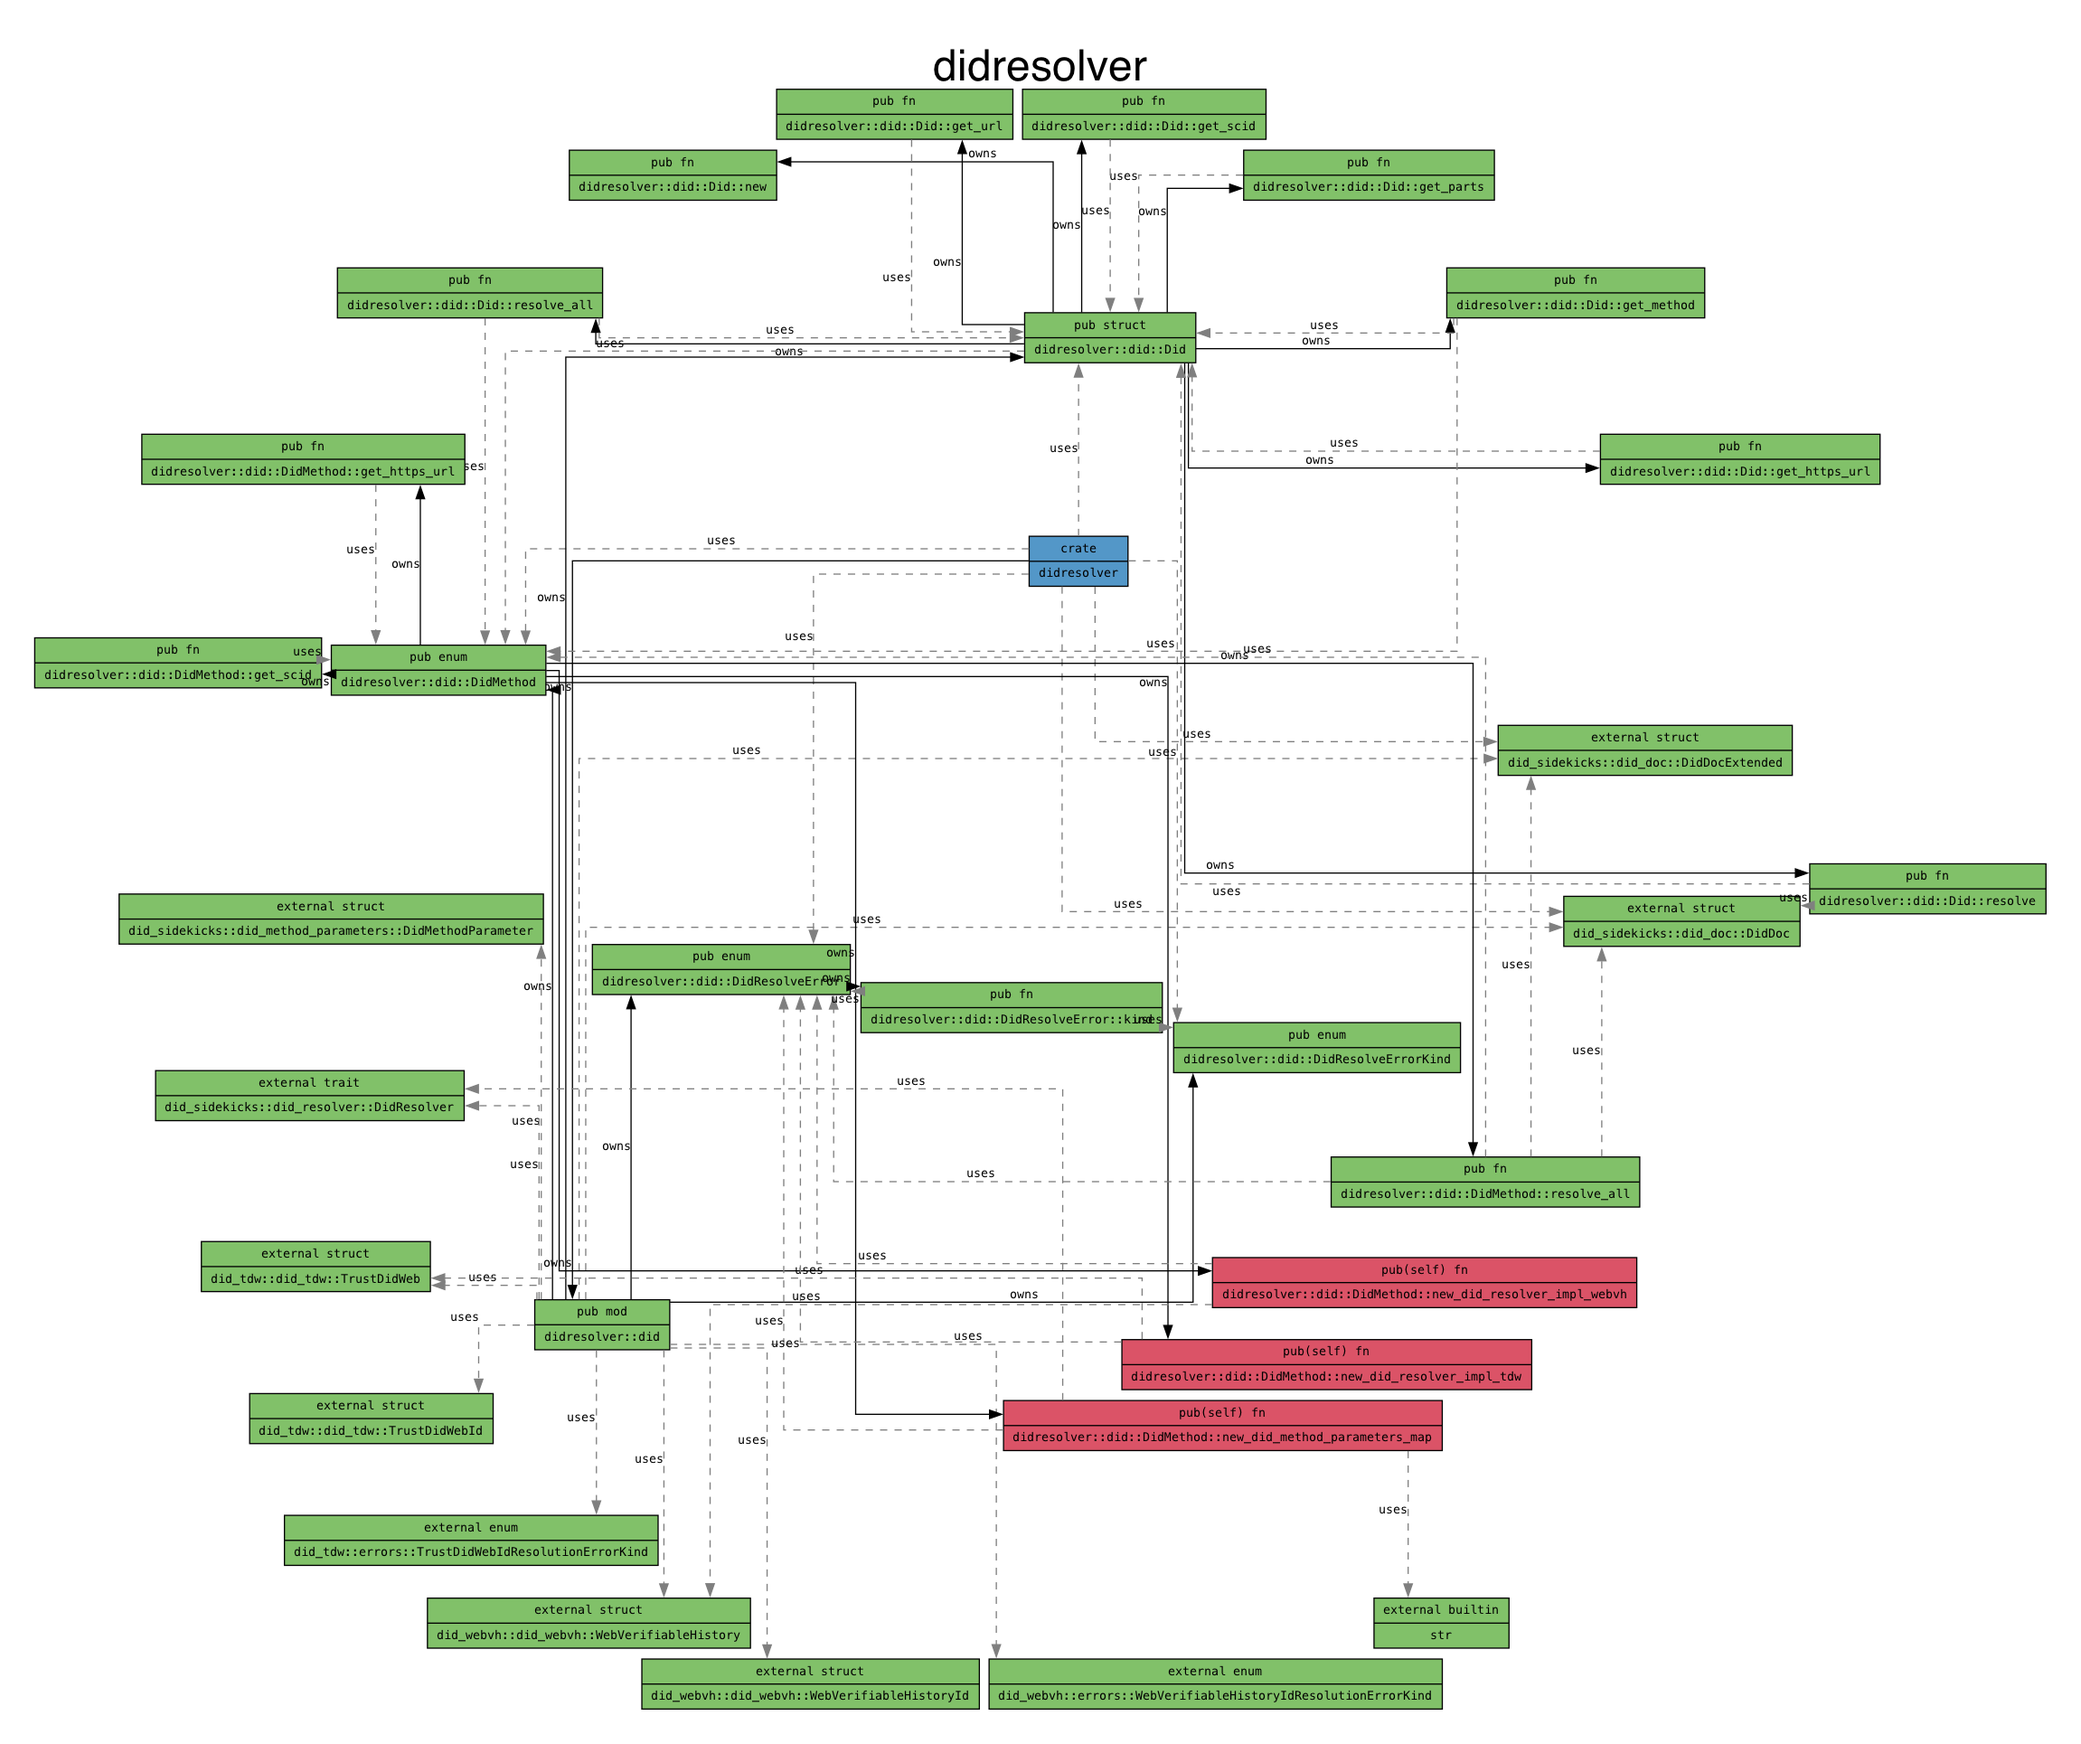
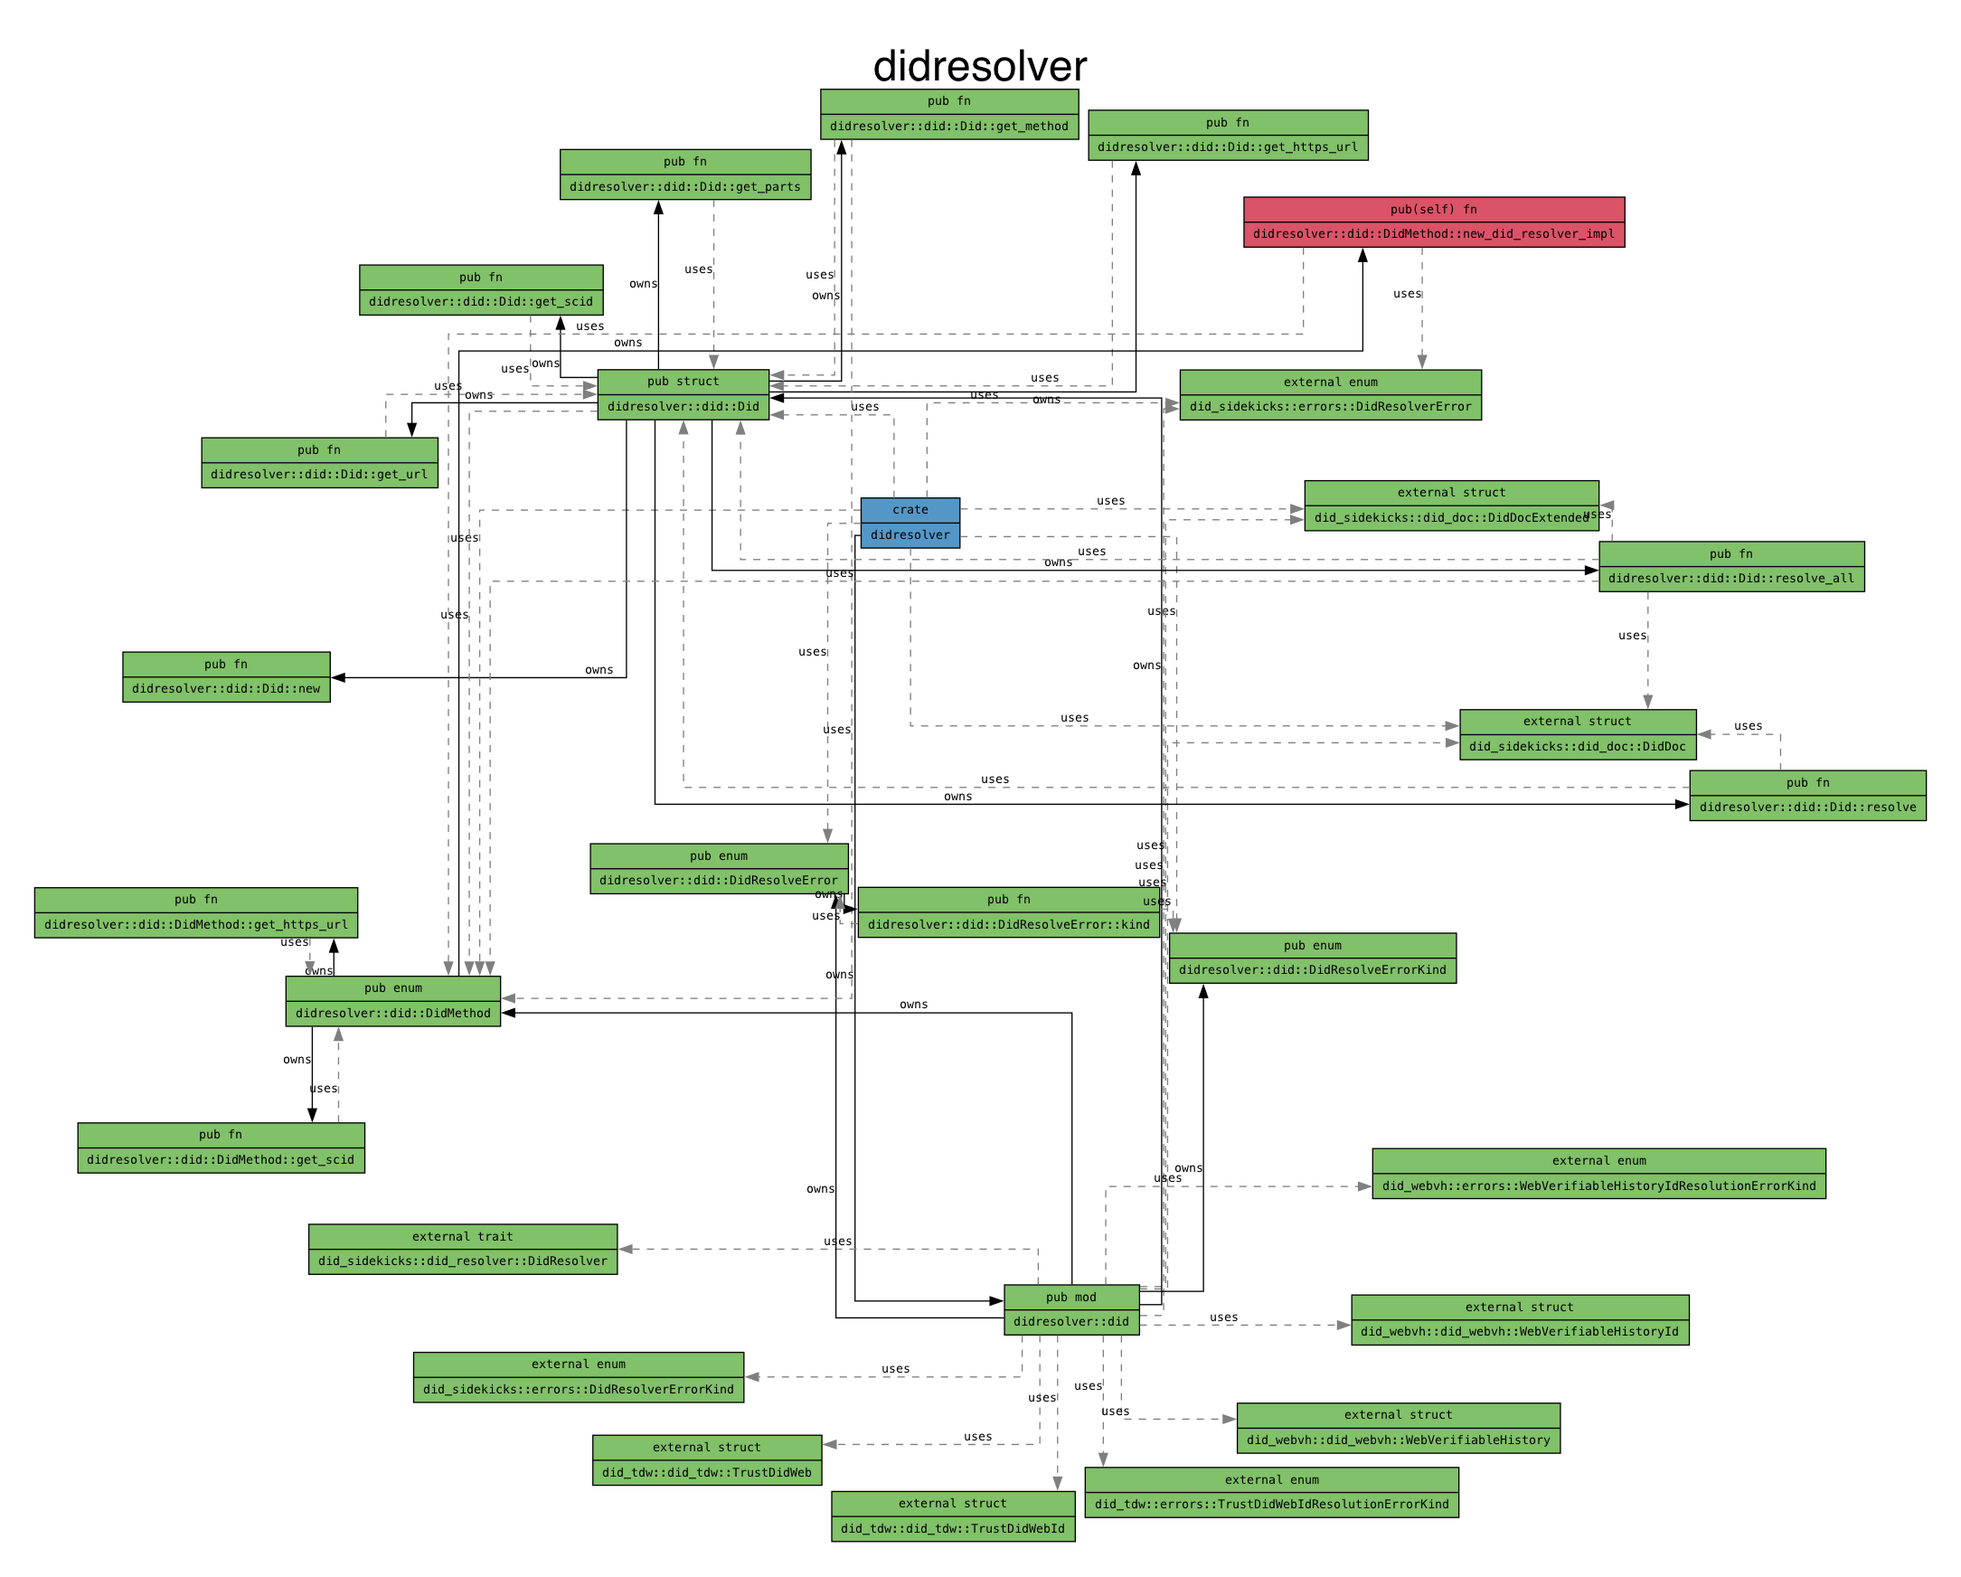
EIDOMNI-126: Dynamic dispatching in `DidMethod::new_did_resolver_impl` done properly. Using new `did_sidekicks::errors::DidResolverError`

Changed region(s): [[0.0, 0.031, 0.9885, 0.9908], [0.6796, 0.3716, 0.7105, 0.4025], [0.4325, 0.1239, 0.4633, 0.1548]]

diff --git a/src/did.rs b/src/did.rs
@@ -2,13 +2,12 @@
 
 use crate::did::DidMethod::{TDW, WEBVH};
 use did_sidekicks::did_doc::{DidDoc, DidDocExtended};
-use did_sidekicks::did_method_parameters::DidMethodParameter;
 use did_sidekicks::did_resolver::DidResolver;
+use did_sidekicks::errors::{DidResolverError, DidResolverErrorKind};
 use did_tdw::did_tdw::{TrustDidWeb, TrustDidWebId};
 use did_tdw::errors::TrustDidWebIdResolutionErrorKind;
 use did_webvh::did_webvh::{WebVerifiableHistory, WebVerifiableHistoryId};
 use did_webvh::errors::WebVerifiableHistoryIdResolutionErrorKind;
-use std::collections::HashMap;
 use std::fmt::{Display, Formatter};
 use std::sync::Arc;
 use strum::{AsRefStr as EnumAsRefStr, Display as EnumDisplay};
@@ -30,6 +29,25 @@ pub enum DidResolveError {
     /// The supplied DID log is valid, but it features invalid DID Doc
     #[error("the supplied DID log is valid, but it features invalid DID Doc: {0}")]
     InvalidDidDoc(String),
+    /// Invalid method-specific identifier
+    #[error("invalid method specific identifier: {0}")]
+    InvalidMethodSpecificId(String),
+    /// Failed to serialize DID document (to JSON)
+    #[error("failed to serialize DID document (to JSON): {0}")]
+    SerializationFailed(String),
+    /// The supplied DID document is invalid or contains an argument which isn't part of the did specification/recommendation
+    #[error("The supplied DID document is invalid or contains an argument which isn't part of the did specification/recommendation: {0}"
+    )]
+    DeserializationFailed(String),
+    /// Invalid DID method parameter
+    #[error("invalid DID method parameter: {0}")]
+    InvalidDidParameter(String),
+    /// Alias for [`DidResolveError::InvalidDidDoc`]
+    #[error("invalid DID document: {0}")]
+    InvalidDidDocument(String),
+    /// Invalid DID log integration proof
+    #[error("invalid DID log integration proof: {0}")]
+    InvalidDataIntegrityProof(String),
 }
 
 impl DidResolveError {
@@ -40,6 +58,37 @@ impl DidResolveError {
             Self::InvalidDidLog(_) => DidResolveErrorKind::InvalidDidLog,
             Self::InvalidDidDoc(_) => DidResolveErrorKind::InvalidDidDoc,
             Self::MalformedDid(_) => DidResolveErrorKind::MalformedDid,
+            Self::InvalidMethodSpecificId(_) => DidResolveErrorKind::InvalidMethodSpecificId,
+            Self::SerializationFailed(_) => DidResolveErrorKind::SerializationFailed,
+            Self::DeserializationFailed(_) => DidResolveErrorKind::DeserializationFailed,
+            Self::InvalidDidParameter(_) => DidResolveErrorKind::InvalidDidParameter,
+            Self::InvalidDidDocument(_) => DidResolveErrorKind::InvalidDidDocument,
+            Self::InvalidDataIntegrityProof(_) => DidResolveErrorKind::InvalidDataIntegrityProof,
+        }
+    }
+}
+
+impl From<DidResolverError> for DidResolveError {
+    fn from(value: DidResolverError) -> Self {
+        match value.kind() {
+            DidResolverErrorKind::InvalidMethodSpecificId => {
+                DidResolveError::InvalidMethodSpecificId(format!("{value}"))
+            }
+            DidResolverErrorKind::SerializationFailed => {
+                DidResolveError::SerializationFailed(format!("{value}"))
+            }
+            DidResolverErrorKind::DeserializationFailed => {
+                DidResolveError::DeserializationFailed(format!("{value}"))
+            }
+            DidResolverErrorKind::InvalidDidParameter => {
+                DidResolveError::InvalidDidParameter(format!("{value}"))
+            }
+            DidResolverErrorKind::InvalidDidDocument => {
+                DidResolveError::InvalidDidDocument(format!("{value}"))
+            }
+            DidResolverErrorKind::InvalidIntegrityProof => {
+                DidResolveError::InvalidDataIntegrityProof(format!("{value}"))
+            }
         }
     }
 }
@@ -53,6 +102,12 @@ pub enum DidResolveErrorKind {
     MalformedDid,
     InvalidDidLog,
     InvalidDidDoc,
+    InvalidMethodSpecificId,
+    SerializationFailed,
+    DeserializationFailed,
+    InvalidDidParameter,
+    InvalidDidDocument,
+    InvalidDataIntegrityProof,
 }
 
 /// The DID methods supported by [`Did`]
@@ -91,69 +146,35 @@ impl DidMethod {
 }
 
 impl DidMethod {
-    pub fn resolve_all(
+    /// Delivers a proper `DID` resolver implementation (if any) object w.r.t. to `DID` method.
+    ///
+    /// A returned value is [`Box`]-ed for the sake of dynamic dispatching.
+    /// Namely, pointer types like [`Box`], [`Rc`] and [`Arc`] are able to hold a wide pointer.
+    fn new_did_resolver_impl(
         &self,
         did_str: String,
         did_log: String,
-    ) -> Result<Arc<DidDocExtended>, DidResolveError> {
+    ) -> Result<Box<dyn DidResolver>, DidResolverError> {
         match self {
             TDW {
                 scid: _,
                 https_url: _,
-            } => {
-                let did_resolver = Self::new_did_resolver_impl_tdw(did_str, did_log)?;
-                Ok(Arc::new(DidDocExtended::new(
-                    did_resolver.get_did_doc_obj(),
-                    Self::new_did_method_parameters_map(&did_resolver)?,
-                )))
-            }
+            } => match TrustDidWeb::resolve(did_str.clone(), did_log.clone()) {
+                // [`TrustDidWeb`] implements [`DidResolver`] trait
+                Ok(v) => Ok(Box::new(v)),
+                Err(err) => Err(err),
+            },
             WEBVH {
                 scid: _,
                 https_url: _,
-            } => {
-                let did_resolver = Self::new_did_resolver_impl_webvh(did_str, did_log)?;
-                Ok(Arc::new(DidDocExtended::new(
-                    did_resolver.get_did_doc_obj(),
-                    Self::new_did_method_parameters_map(&did_resolver)?,
-                )))
-            }
-            _ => Err(DidResolveError::DidNotSupported(format!(
+            } => match WebVerifiableHistory::resolve(did_str.clone(), did_log.clone()) {
+                // [`WebVerifiableHistory`] implements [`DidResolver`] trait
+                Ok(v) => Ok(Box::new(v)),
+                Err(err) => Err(err),
+            },
+            _ => Err(DidResolverError::InvalidMethodSpecificId(format!(
                 "Unsupported DID method denoted by DID: {did_str}"
             ))),
-        }
-    }
-
-    #[inline(always)]
-    fn new_did_resolver_impl_tdw(
-        did_str: String,
-        did_log: String,
-    ) -> Result<impl DidResolver, DidResolveError> {
-        match TrustDidWeb::resolve(did_str, did_log) {
-            Ok(did_resolver) => Ok(did_resolver),
-            Err(err) => Err(DidResolveError::InvalidDidLog(format!("{err}"))),
-        }
-    }
-
-    #[inline(always)]
-    fn new_did_resolver_impl_webvh(
-        did_str: String,
-        did_log: String,
-    ) -> Result<impl DidResolver, DidResolveError> {
-        match WebVerifiableHistory::resolve(did_str, did_log) {
-            Ok(did_resolver) => Ok(did_resolver),
-            Err(err) => Err(DidResolveError::InvalidDidLog(format!("{err}"))),
-        }
-    }
-
-    #[inline(always)]
-    fn new_did_method_parameters_map(
-        did_resolver: &impl DidResolver,
-    ) -> Result<HashMap<String, Arc<DidMethodParameter>>, DidResolveError> {
-        match did_resolver.get_did_method_parameters_map().try_into() {
-            Ok(map) => Ok(map),
-            Err(_) => Err(DidResolveError::InvalidDidLog(
-                "Failed to get DID method parameters".to_string(),
-            )),
         }
     }
 }
@@ -272,8 +293,11 @@ impl Did {
     /// A UniFFI-compliant method.
     #[deprecated(since = "2.2.0", note = "please use more potent `resolve_all` instead")]
     pub fn resolve(&self, did_log: String) -> Result<Arc<DidDoc>, DidResolveError> {
+        // may throw did_sidekicks::error::DidResolver
         match self.resolve_all(did_log) {
             Ok(resolve_all) => Ok(Arc::new(resolve_all.get_did_doc_obj())),
+            // CAUTION Calling `DidResolveError::from(err)` would be useless here since
+            //         DidResolveError already implements From<did_sidekicks::error::DidResolver> trait
             Err(err) => Err(err),
         }
     }
@@ -291,7 +315,16 @@ impl Did {
     ///
     /// A UniFFI-compliant method.
     pub fn resolve_all(&self, did_log: String) -> Result<Arc<DidDocExtended>, DidResolveError> {
-        self.did_method.resolve_all(self.to_string(), did_log)
+        // CAUTION Using the Rust ? operator at various places in code below is only possible because os
+        //         DidResolveError's implementation of From<did_sidekicks::error::DidResolver> trait
+        Ok(Arc::new(DidDocExtended::new(
+            self.did_method
+                .new_did_resolver_impl(self.to_string(), did_log.clone())? // may throw did_sidekicks::error::DidResolver
+                .get_did_doc_obj(),
+            self.did_method
+                .new_did_resolver_impl(self.to_string(), did_log)? // may throw did_sidekicks::error::DidResolver
+                .collect_did_method_parameters_map()?, // may throw DidResolverError
+        )))
     }
 }
 
@@ -529,30 +562,34 @@ mod tests {
     ) {
         let did_obj = Did::new(did.clone()).unwrap();
 
-        let did_doc = did_obj.resolve(did_log_raw);
+        let did_doc = did_obj.resolve_all(did_log_raw);
         assert!(did_doc.is_err());
         let err = did_doc.err().unwrap();
-        assert_eq!(DidResolveErrorKind::InvalidDidLog, err.kind());
-        assert!(err.to_string().contains(&error_message_contains));
+        assert_eq!(DidResolveErrorKind::InvalidDataIntegrityProof, err.kind(), "ERROR: {:?}", err);
+        assert!(
+            err.to_string().contains(&error_message_contains),
+            "ERROR: {:?}",
+            err
+        );
     }
 
     #[rstest]
     #[case("did:tdw:QmPsui8ffosRTxUBP8vJoejauqEUGvhmWe77BNo1StgLk7:identifier-reg.trust-infra.swiyu-int.admin.ch:api:v1:did:18fa7c77-9dd1-4e20-a147-fb1bec146085",
         r#"["Invalid Log"]"#,
-        "the supplied DID log is invalid")]
+        "the supplied DID document is invalid or contains an argument which isn't part of the did specification/recommendation")]
     #[case(
         "did:webvh:QmYPmKXuvwHeVF8zWdcMvU3UNksUZnR5kUJbhDjEjbZYvX:example.com",
         r#"{}"#,
-        "the supplied DID log is invalid"
+        "the supplied DID document is invalid or contains an argument which isn't part of the did specification/recommendation"
     )]
     #[case("did:tdw:QmPsui8ffosRTxUBP8vJoejauqEUGvhmWe77BNo1StgLk7:identifier-reg.trust-infra.swiyu-int.admin.ch:api:v1:did:18fa7c77-9dd1-4e20-a147-fb1bec146085",
[2 lines of base64/hex data omitted]
-"#, "the supplied DID log is invalid")]
+"#, "the supplied DID document is invalid or contains an argument which isn't part of the did specification/recommendation")]
     #[case("did:webvh:QmYPmKXuvwHeVF8zWdcMvU3UNksUZnR5kUJbhDjEjbZYvX:example.com",
[2 lines of base64/hex data omitted]
-"#, "the supplied DID log is invalid")]
+"#, "the supplied DID document is invalid or contains an argument which isn't part of the did specification/recommendation")]
     fn test_resolve_invalid_did_log(
         #[case] did: String,
         #[case] did_log_raw: String,
@@ -560,10 +597,10 @@ mod tests {
     ) {
         let did_obj = Did::new(did.clone()).unwrap();
 
-        let did_doc = did_obj.resolve(did_log_raw);
+        let did_doc = did_obj.resolve_all(did_log_raw);
         assert!(did_doc.is_err());
         let err = did_doc.err().unwrap();
-        assert!(err.to_string().contains(&error_message));
+        assert!(err.to_string().contains(&error_message), "ERROR: {:?}", err);
     }
 
     #[rstest]
@@ -574,9 +611,9 @@ mod tests {
     ) -> Result<(), Box<dyn std::error::Error>> {
         let did_obj = Did::new(did.to_string())?; // no error expected here
 
-        let res = did_obj.resolve(String::new()); // empty string
+        let res = did_obj.resolve_all(String::new()); // empty string
         assert!(res.is_err(), "ERROR: {:?}", res.err().unwrap());
-        assert_eq!(res.unwrap_err().kind(), DidResolveErrorKind::InvalidDidLog); // panic-safe unwrap call (see the previous line)
+        assert_eq!(res.unwrap_err().kind(), DidResolveErrorKind::DeserializationFailed); // panic-safe unwrap call (see the previous line)
 
         Ok(())
     }
@@ -609,10 +646,10 @@ mod tests {
         assert!(did_log_raw.is_ok());
         let did_log_raw = did_log_raw.unwrap();
 
-        let res = did_obj.resolve(did_log_raw); // panic-safe unwrap call (see above)
+        let res = did_obj.resolve_all(did_log_raw); // panic-safe unwrap call (see above)
         assert!(res.is_err());
         let err = res.unwrap_err(); // panic-safe unwrap call (see the previous line)
-        assert_eq!(err.kind(), DidResolveErrorKind::InvalidDidLog);
+        assert_eq!(err.kind(), DidResolveErrorKind::DeserializationFailed);
         assert!(err
                     .to_string()
                     .contains("Version numbers (`versionId`) must be in a sequence of positive consecutive integers"),

diff --git a/src/lib.rs b/src/lib.rs
@@ -4,6 +4,7 @@
 use crate::did::*;
 use did_sidekicks::did_doc::DidDoc;
 use did_sidekicks::did_doc::DidDocExtended;
+use did_sidekicks::errors::DidResolverError;
 
 pub mod did;
 

diff --git a/README.md b/README.md
@@ -111,10 +111,7 @@ crate didresolver
     ├── enum DidMethod: pub
     │   ├── fn get_https_url: pub
     │   ├── fn get_scid: pub
-    │   ├── fn new_did_method_parameters_map: pub(self)
-    │   ├── fn new_did_resolver_impl_tdw: pub(self)
-    │   ├── fn new_did_resolver_impl_webvh: pub(self)
-    │   └── fn resolve_all: pub
+    │   └── fn new_did_resolver_impl: pub(self)
     ├── enum DidResolveError: pub
     │   └── fn kind: pub
     └── enum DidResolveErrorKind: pub
